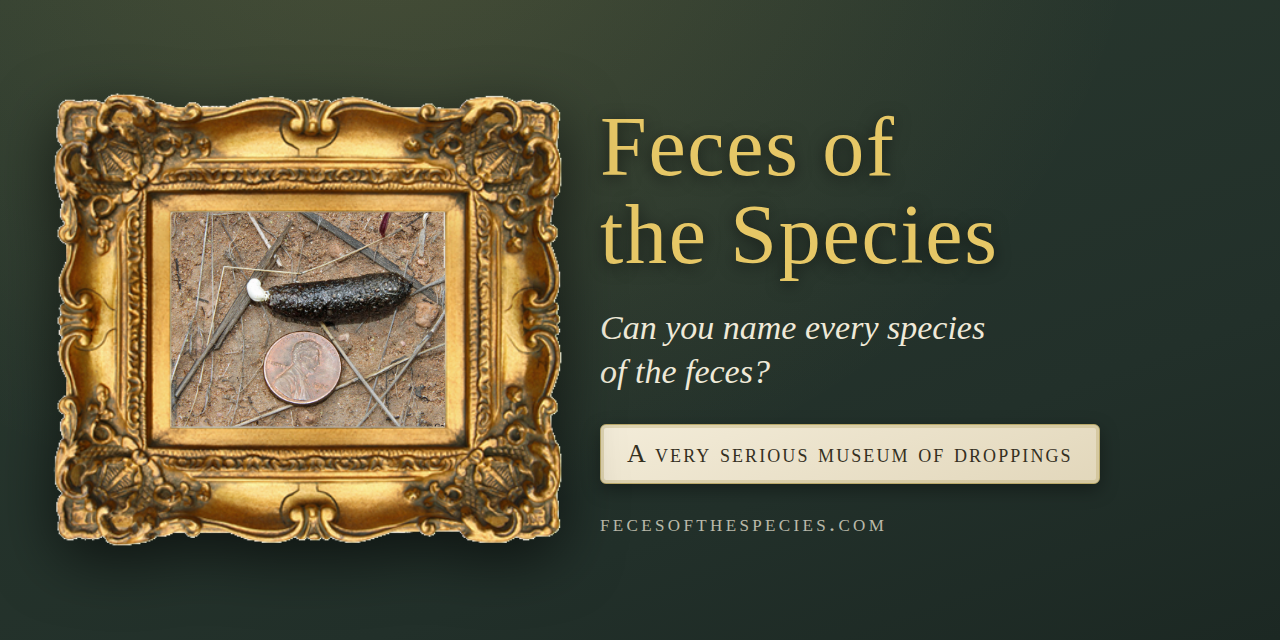
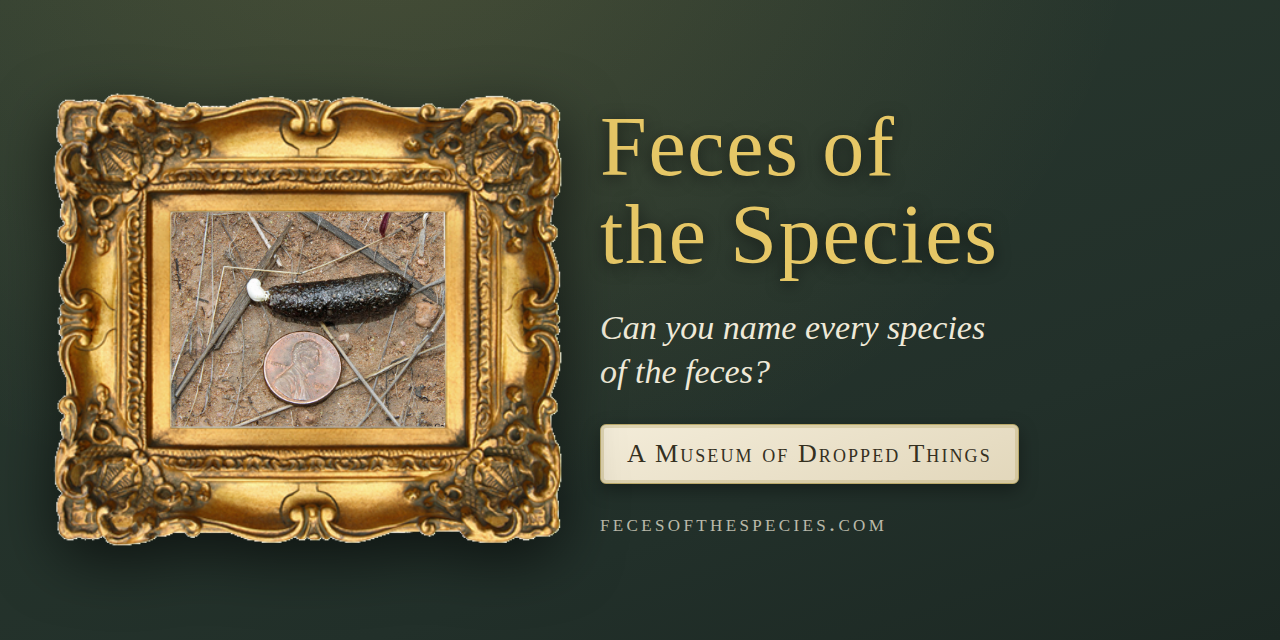
Bump to 0.1.2: social preview tagline is now "A Museum of Dropped Things" (#4)
Claude-Session: https://claude.ai/code/session_018PGrGYk5eQiYTnJkCmxCSD

Changed region(s): [[0.5, 0.6562, 0.875, 0.7812]]

diff --git a/CHANGELOG.md b/CHANGELOG.md
@@ -5,6 +5,11 @@ All notable changes to this project are documented here. The format follows
 [Semantic Versioning](https://semver.org). Every change bumps the version and adds an entry
 below.
 
+## [0.1.2] - 2026-07-02
+
+### Changed
+- Social preview card tagline is now "A Museum of Dropped Things".
+
 ## [0.1.1] - 2026-07-02
 
 ### Added

diff --git a/README.md b/README.md
@@ -1,6 +1,6 @@
 # Feces of the Species
 
-> **Version:** 0.1.1 · **Site:** [fecesofthespecies.com](https://fecesofthespecies.com) ·
+> **Version:** 0.1.2 · **Site:** [fecesofthespecies.com](https://fecesofthespecies.com) ·
 > **License:** [MIT](./LICENSE) · **Changelog:** [CHANGELOG.md](./CHANGELOG.md) ·
 > **Roadmap:** [docs/ROADMAP.md](./docs/ROADMAP.md)
 